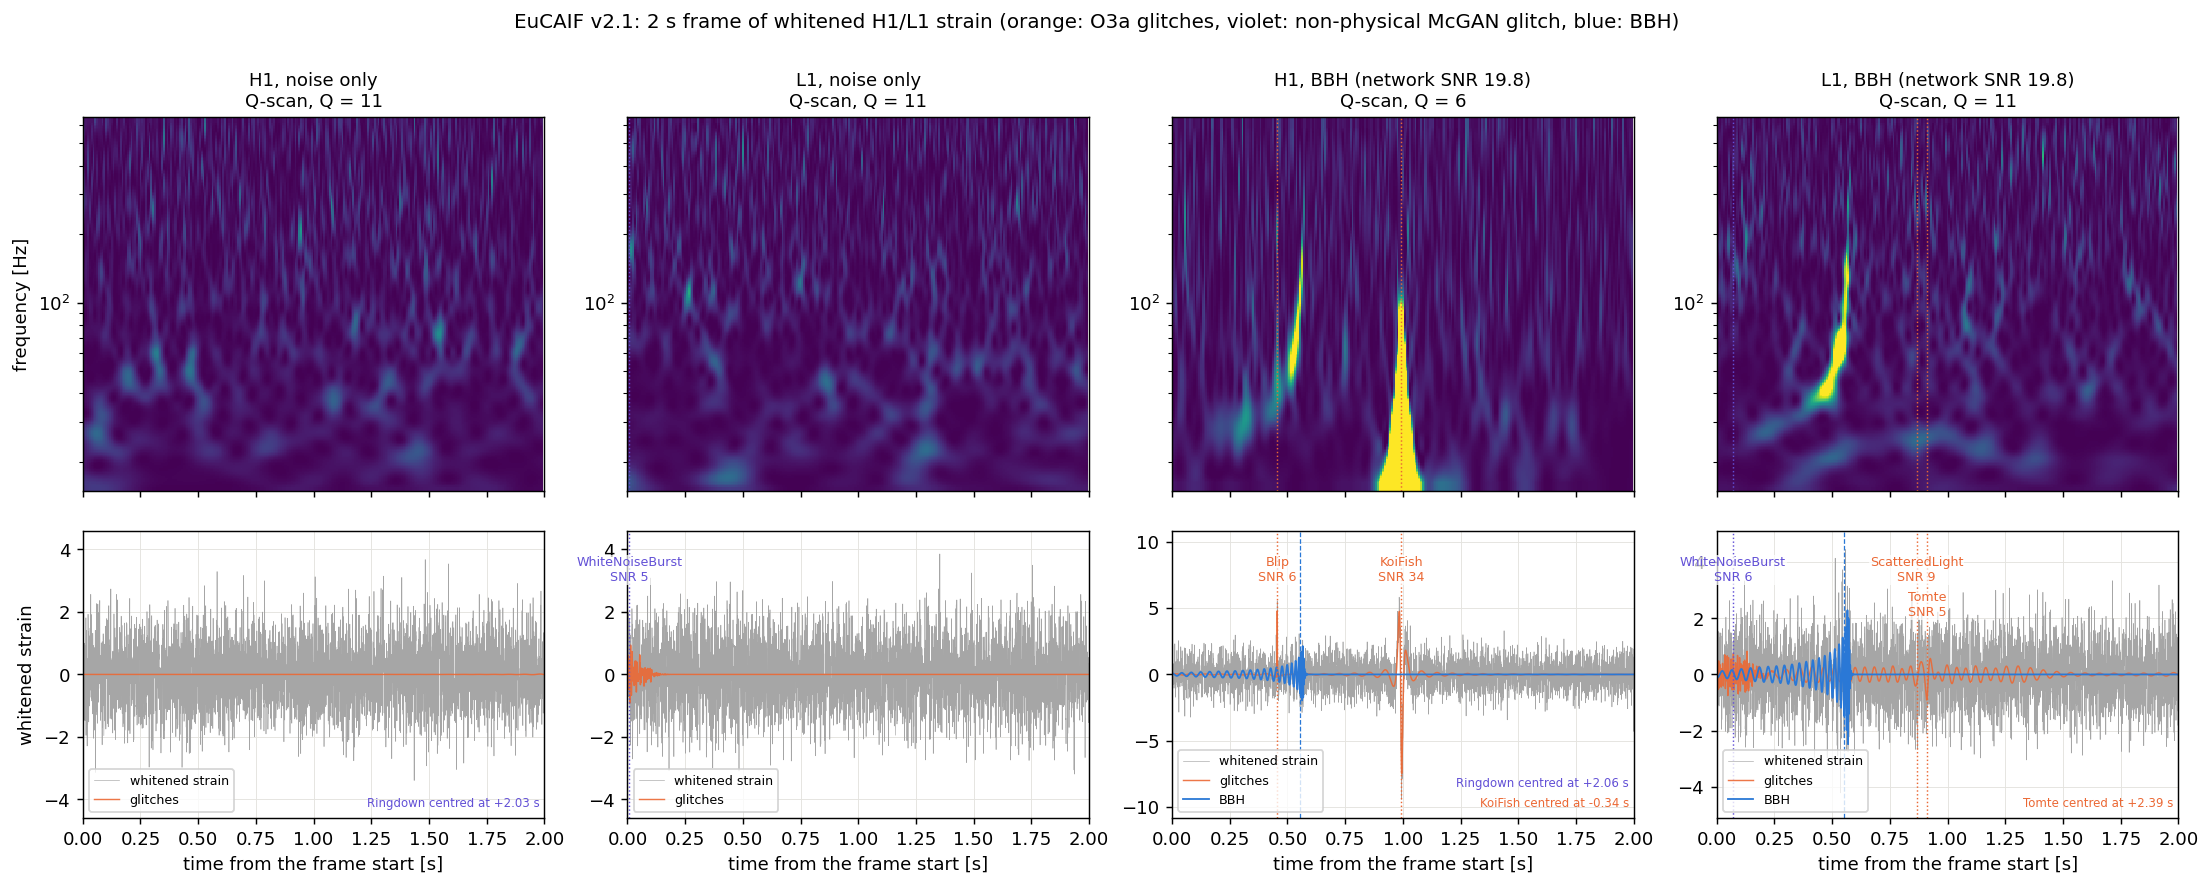
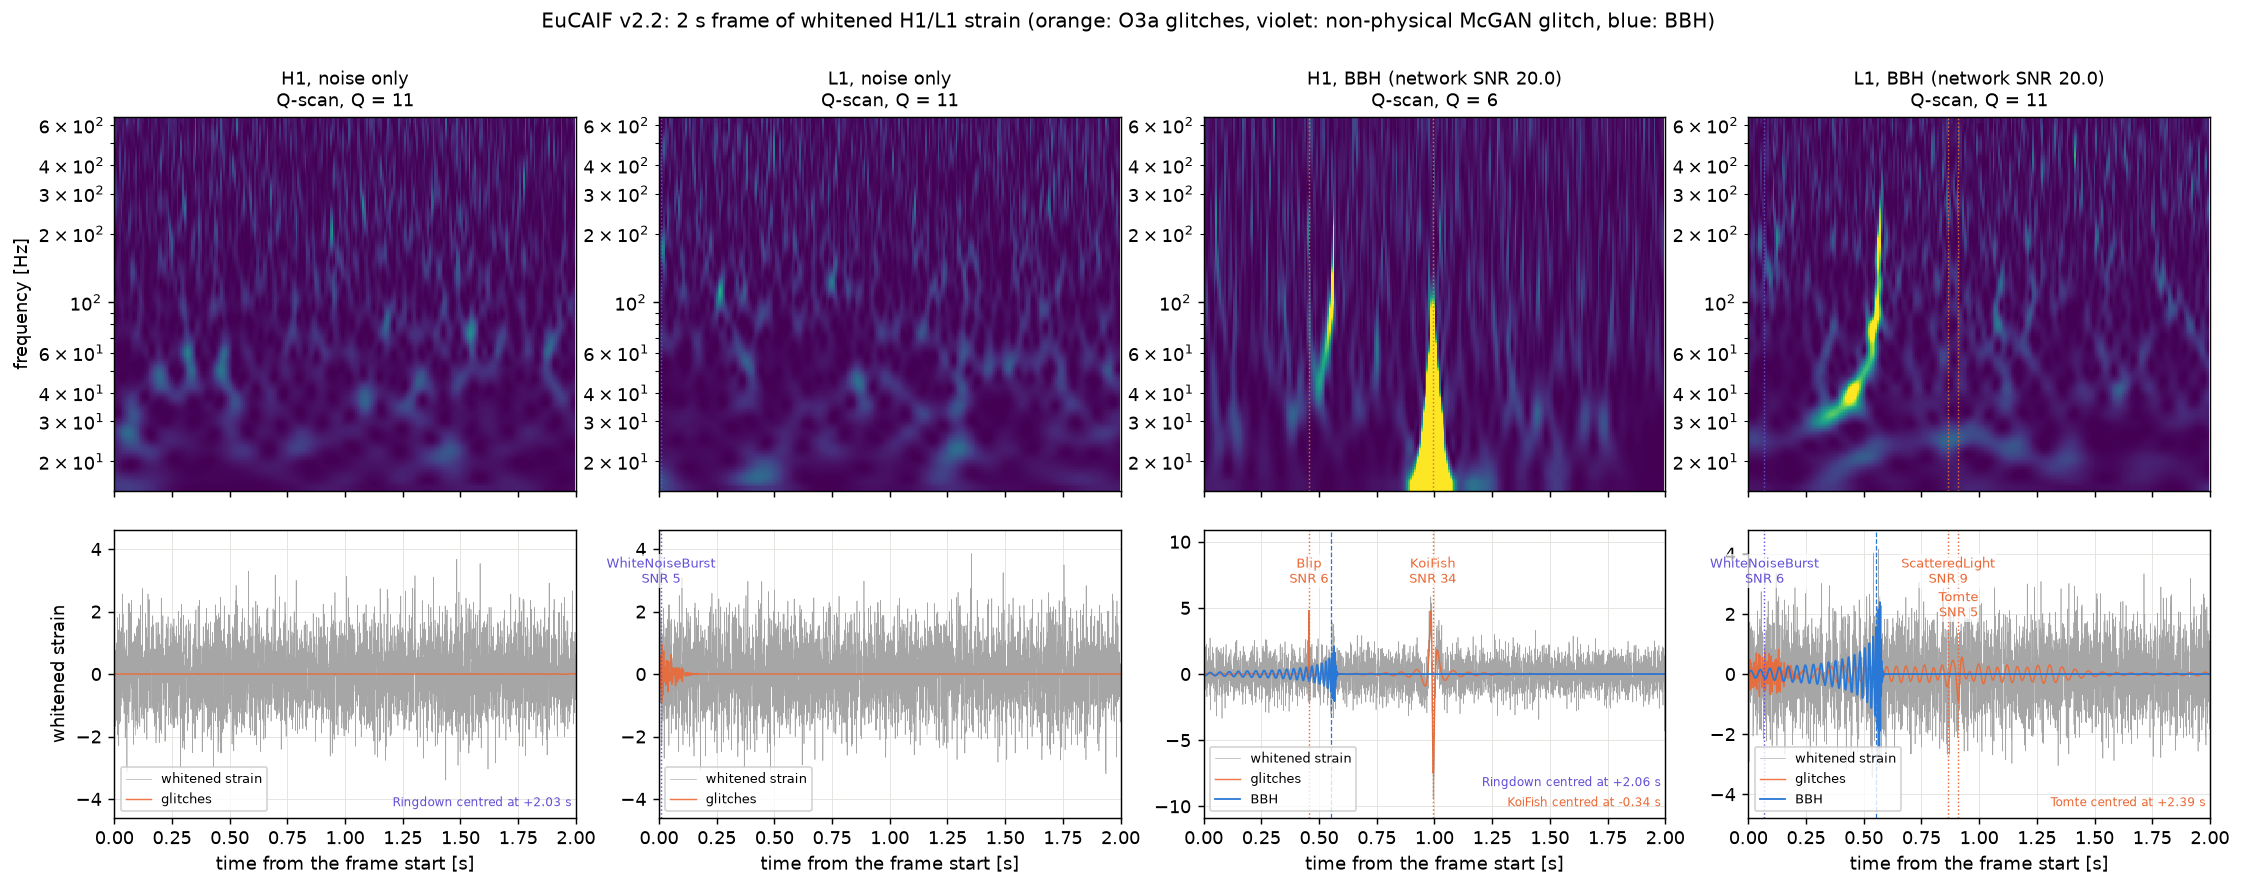
eucaif v2 example figure regenerated with the v2.2 code; title takes the version from the generator

Changed region(s): [[0.0, 0.0609, 0.9986, 1.0], [0.2185, 0.0, 0.7802, 0.0304], [0.4993, 0.6088, 0.5305, 0.6392]]

diff --git a/eucaif/example_eucaif_v2.py b/eucaif/example_eucaif_v2.py
@@ -77,7 +77,8 @@ def plot(data, gen, qt, path):
             if col == 0:
                 ax.set_ylabel("whitened strain")
     axes[0, 0].set_xlim(0, qt.frame_s)
-    fig.suptitle("EuCAIF v2.1: 2 s frame of whitened H1/L1 strain (orange: O3a glitches, violet: non-physical "
+    version = gen.attrs()["dataset_version"].replace("eucaif", "EuCAIF")       # e.g. "EuCAIF v2.2"
+    fig.suptitle(f"{version}: 2 s frame of whitened H1/L1 strain (orange: O3a glitches, violet: non-physical "
                  "McGAN glitch, blue: BBH)", fontsize=11, y=0.995)
     fig.savefig(path, dpi=130, bbox_inches="tight")
     print("saved", path)

diff --git a/eucaif/README_eucaif_v2.md b/eucaif/README_eucaif_v2.md
@@ -25,7 +25,7 @@ With `glitches.probability: 0` and `nonphysical_glitches.probability: 0` the exa
 
 ![EuCAIF v2 example](figures/eucaif_v2_example.png)
 
-A noise-only and a BBH example (network SNR 19.8), H1 and L1: Q-scans of the 2 s frame (top) and the
+A noise-only and a BBH example (network SNR 20.0), H1 and L1: Q-scans of the 2 s frame (top) and the
 whitened time series (bottom). Orange: O3a glitches, violet: the non-physical McGAN glitch, blue:
 the BBH (dashed: merger time); each glitch is labelled with its class and SNR. Note that the Q-scan
 picks its Q per detector (gwpy's behaviour), so H1 and L1 can differ. Made, with timings, by
